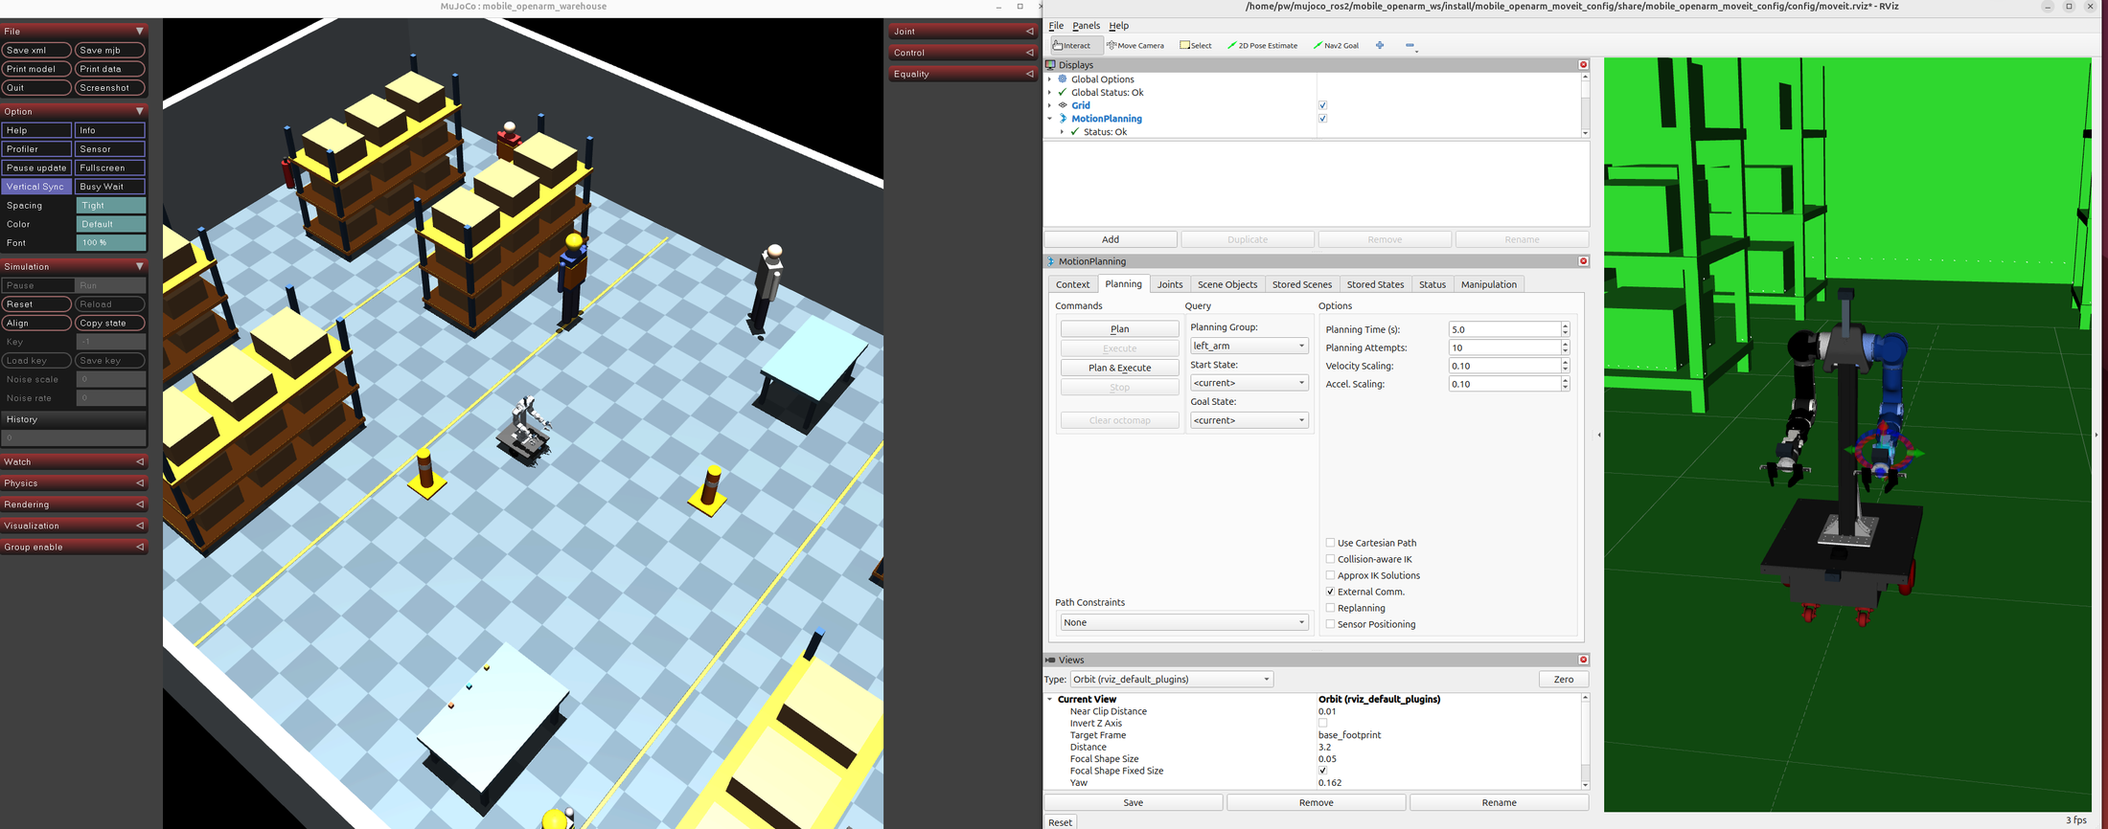
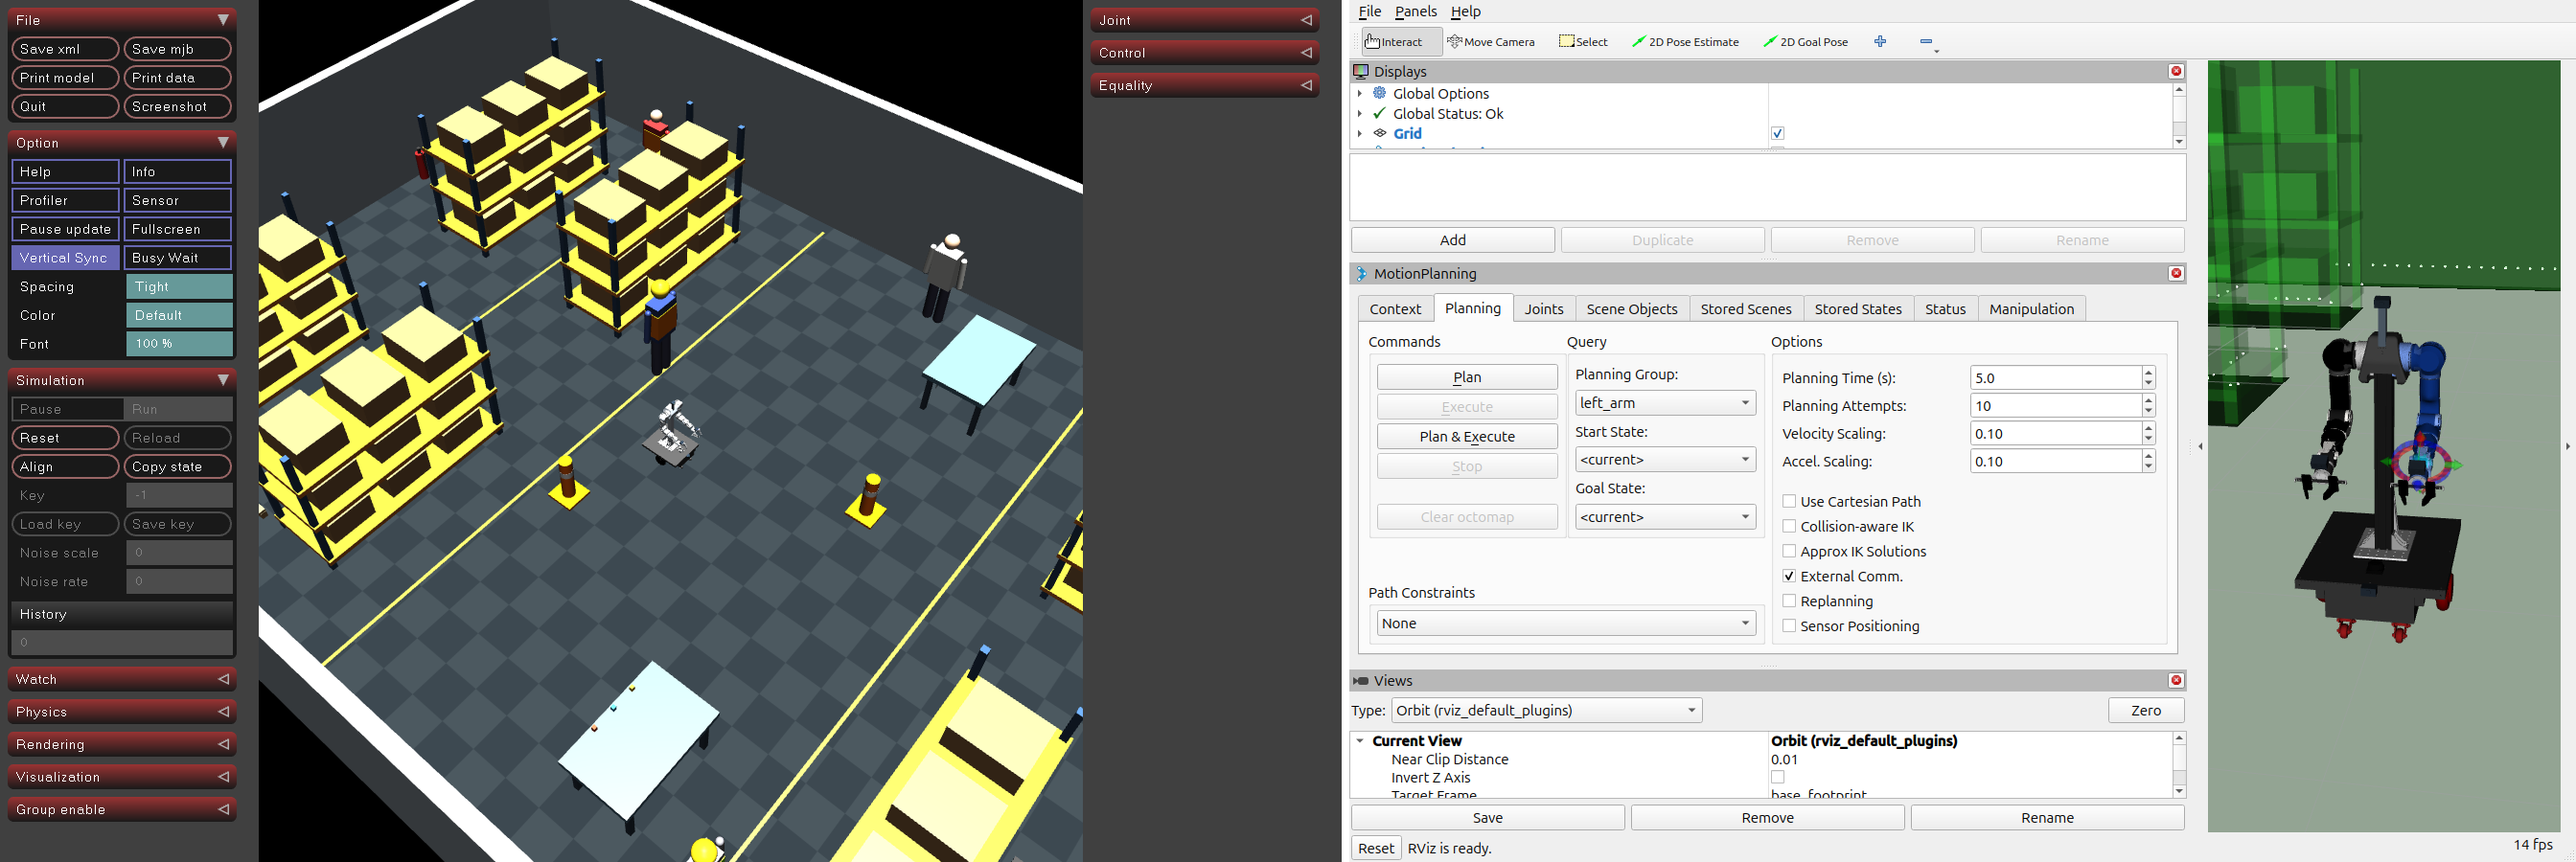
Recapture the setup page start screen with the translucent planning scene

diff --git a/docs/lecture/NEXT.md b/docs/lecture/NEXT.md
@@ -16,7 +16,10 @@
 - Confluence 새 하위 페이지 3779067905 "Final Mission: 자연어 한 문장으로 창고 운반 End-to-End" (v1, 부모 3692396550) ← `docs/camp/lesson15_final_mission.md` (h3 33: 1 개념 5 → 2 실행 17 (01 · start · task_manager(⑫ lesson13_t2.png 재사용) · 02 시나리오 1~3 · 경로 · 장면 · 시간 · dry-run · stop) → 3 코드 10 → 해 볼 것) + `lesson15_*.png` 15장. 그림: `MUJOCO_GL=egl ./scripts/mobile_openarm exec python docs/camp/draw_lesson15_figures.py`, 터미널: `python3 docs/camp/render_lesson15_terminals.py` (로그를 걸러서 그림, 손으로 친 줄 없음). 데이터 `artifacts/dev/l14/` (final_run2.log · final_mission.pkl · 01_run1~8.log · 01_final.log · dry_s3.log · start_refused.log · stop.log).
 - 정확도 그림의 막대 4개 = 표 없음 (run3 · 4 · 5 · final), '이미 있으면 비워라' 를 LLM 에 (run1 · 2), 판정은 코드 (run3 · 4 · 5), + '말한 도착지 그대로' (run6 · 7 · 8 · final).
 
-**다음**: lessons README (01~10 목차) · INSTALL.md · check_env.sh (doctor 로 대체됐는지 확인), 페이지 순서 확인.
+- 그 뒤: README 과정 표를 lessons/ 링크로, `lessons/04_navigation/README.md` 추가 (7ef5cd1). INSTALL.md · check_env.sh 는 만들지 않음 (00_setup · README · doctor 가 대신).
+- 환경 설정 페이지 3692331054 v36: `setup_start_result.png` 재캡처 (실제 start, MuJoCo 1400x900 + RViz 1280x900 을 `import -window` 로 따서 나란히, 창은 xdotool windowsize/move 만). 본문은 그대로 (게시 전 pull_confluence 로 SAME 확인).
+
+**다음 (사용자 결정 대기)**: LLM 모델 (gpt-4.1-mini 유지?), ⑥ 좌우 오가는 현상, ① 옛 그림 정리.
 
 ## 0-0000000000000000000000000. 2026-11-12: 다른 PC 작업 되받기 (GitHub d0c1a97 · Confluence 11/11 수정) 
 
@@ -38,7 +41,7 @@
 
 **한 일**
 - 설치 경고 문의 (고치지 않음): `install_lecture.sh` 의 rosdep `pkg_resources` DeprecationWarning 은 /usr/bin/rosdep 자체 문제. pip 의 `Skipping .../pybind11-2.11.1.dist-info` 는 apt `python3-pybind11` 의 dist-info 에 METADATA 가 없어서이고, venv 가 `--system-site-packages` 라 보임. 둘 다 무해.
-- RViz 녹색 = MoveIt planning scene (`scene.py` 의 창고 박스 + warehouse_floor). `moveit.rviz` Scene Alpha 1 → 0.3 (커밋 0b9fa00, push 함). 설치 페이지 ⑤ 캡처 `setup_start_result.png` 는 아직 옛 진한 녹색 — 다시 찍을지 사용자 미결정.
+- RViz 녹색 = MoveIt planning scene (`scene.py` 의 창고 박스 + warehouse_floor). `moveit.rviz` Scene Alpha 1 → 0.3 (커밋 0b9fa00, push 함). 설치 페이지 ⑤ 캡처 `setup_start_result.png` 는 2026-11-12 다시 찍음 (반투명 장면, 환경 설정 페이지 v36).
 - ① 페이지 3692920898 "MuJoCo와 ROS2를 연결하기" (v24 → v28): 학생이 브리지만 띄우고 팔이 수직(카메라 하늘)이라 혼란 — "실행 결과" 그림이 [0.6, 1.5] 를 보낸 뒤 화면이었음.
   - "실행 결과" 그림 = 초기 자세 (새 캡처), 새 h3 "터미널 2: 관절 명령 보내기" · "관절 명령을 보낸 뒤의 실행 결과" · "터미널 2: 초기 자세로 되돌리기" ([0.0, 0.0] → 뒤쪽 [0.6, 1.5] 전후 실습이 초기 자세에서 시작).
   - "터미널 2: rqt_image_view" 를 h3 두 개로 분리 (슬라이드용): 명령 + 터미널 그림 / rqt 창 그림.
